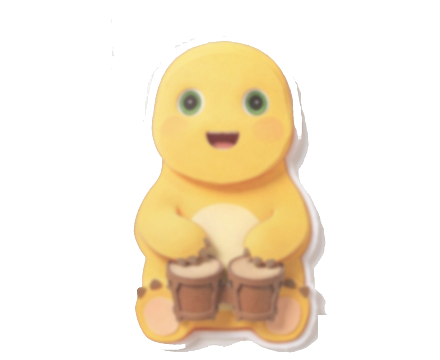
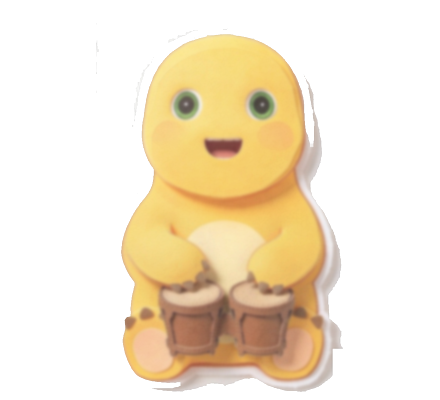
阿瓜 v6：帽子贴合+挤压收敛+体型+15%
- 体型 386（+15%），画布 440×400，SpriteHeight 220×200 映射
- 帽围缩放 ×0.9（绕头顶锚），hatAnchor 重算 (110, 4.5)——帽子贴合头顶不浮空
- 挤压系数覆盖 0.975（位图整图 2.5%，防帧内形变失真）
- 433 测试全绿

Changed region(s): [[0.2659, 0.0611, 0.7977, 0.9778]]

diff --git a/scripts/agua_assets_v6.py b/scripts/agua_assets_v6.py
@@ -1,0 +1,140 @@
+"""阿瓜素材 v6：体型 +15% + 头围测量（供帽子缩放/锚点）。
+
+画布 440×400（2x）：角色高 386（+15%），脚底 y=394。
+anchors 输出：hatAnchor（头顶内侧）+ hatHeadWidth（头顶 25% 区域宽度，供帽围比对）。
+"""
+from __future__ import annotations
+
+import json
+from collections import deque
+from pathlib import Path
+
+import numpy as np
+from PIL import Image, ImageFilter
+
+ROOT = Path(r"D:\BongoCat")
+FRAMES = ROOT / "analysis/agua-frames/frames"
+OUT = ROOT / "src/BongoCat.App/assets/species/agua"
+
+STYLES = ["clay", "sticker", "flat", "sketch", "chibi", "papercut"]
+IDLE_SRC = {
+    "clay": "保持参考图中黄色小恐龙角色的全部特征与黏土质感风格_姿势改为_2026-11-09T14-27-46.png",
+    "sticker": "保持参考图中黄色小恐龙角色的全部特征与贴纸风格_白色粗描边__2026-11-09T14-27-56.png",
+    "flat": "保持参考图中黄色小恐龙角色的全部特征与扁平矢量风格_柔和渐变_2026-11-09T14-28-05.png",
+    "sketch": "保持参考图中黄色小恐龙角色的全部特征与手绘钢笔线稿风格_斜线_2026-11-09T14-28-14.png",
+    "chibi": "保持参考图中黄色小恐龙角色的全部特征与Q版厚描边卡通风_深色_2026-11-09T14-28-24.png",
+    "papercut": "保持参考图中黄色小恐龙角色的全部特征与分层剪纸拼贴风格_撕纸_2026-11-09T14-28-33.png",
+}
+TAP_SRC = {
+    "clay": "保持这张图的所有构图_角色_鼓_光影_背景完全一致_只改一个_2026-11-09T14-29-02.png",
+    "sticker": "保持这张图的所有构图_角色_鼓_描边风格_背景完全一致_只改_2026-11-09T14-29-13.png",
+    "flat": "保持这张图的所有构图_角色_鼓_色彩_背景完全一致_只改一个_2026-11-09T14-29-24.png",
+    "sketch": "保持这张图的所有构图_角色_鼓_线稿风格_纸感背景完全一致__2026-11-09T14-29-38.png",
+    "chibi": "保持这张图的所有构图_角色_鼓_厚描边风格_背景完全一致_只_2026-11-09T14-29-49.png",
+    "papercut": "保持这张图的所有构图_角色_鼓_剪纸分层风格_背景完全一致__2026-11-09T14-30-01.png",
+}
+
+CANVAS = (440, 400)
+CHAR_H2X = 386          # +15%（原 336）
+FOOT_Y2X = 394
+WATERMARK = (800, 880, 1024, 1024)
+
+
+def remove_bg(img: Image.Image) -> Image.Image:
+    rgb = np.asarray(img.convert("RGB")).astype(np.float32)
+    h, w, _ = rgb.shape
+    border = np.concatenate([rgb[0, :, :], rgb[-1, :, :], rgb[:, 0, :], rgb[:, -1, :]])
+    ref = np.median(border, axis=0)
+    dist = np.sqrt(((rgb - ref) ** 2).sum(axis=2))
+    candidate = dist < 30
+    bg = np.zeros((h, w), dtype=bool)
+    q = deque()
+    for x in range(w):
+        for y in (0, h - 1):
+            if candidate[y, x] and not bg[y, x]:
+                bg[y, x] = True; q.append((x, y))
+    for y in range(h):
+        for x in (0, w - 1):
+            if candidate[y, x] and not bg[y, x]:
+                bg[y, x] = True; q.append((x, y))
+    while q:
+        x, y = q.popleft()
+        c = rgb[y, x]
+        for nx, ny in ((x+1,y),(x-1,y),(x,y+1),(x,y-1)):
+            if 0 <= nx < w and 0 <= ny < h and not bg[ny, nx] and candidate[ny, nx]:
+                if np.abs(rgb[ny, nx] - c).sum() < 42:
+                    bg[ny, nx] = True; q.append((nx, ny))
+    alpha = np.where(bg, 0, 255).astype(np.uint8)
+    x0, y0, x1, y1 = WATERMARK
+    alpha[y0:y1, x0:x1] = 0
+    out = img.convert("RGBA")
+    out.putalpha(Image.fromarray(alpha, "L").filter(ImageFilter.GaussianBlur(1.0)))
+    return out
+
+
+def defringe(img: Image.Image) -> Image.Image:
+    arr = np.asarray(img).astype(np.uint8)
+    a = np.clip(arr[:, :, 3].astype(np.int16) - 55, 0, 255)
+    a8 = Image.fromarray(a.astype(np.uint8), "L").filter(ImageFilter.MinFilter(3))
+    arr[:, :, 3] = np.asarray(a8)
+    rgb = arr[:, :, :3].astype(np.float32)
+    alpha = arr[:, :, 3]
+    solid = alpha > 240
+    for _ in range(2):
+        blurred = np.asarray(Image.fromarray(rgb.astype(np.uint8)).filter(ImageFilter.GaussianBlur(1))).astype(np.float32)
+        edge = (~solid) & (alpha > 8)
+        rgb[edge] = blurred[edge]
+    arr[:, :, :3] = rgb.astype(np.uint8)
+    return Image.fromarray(arr)
+
+
+def process(style: str) -> dict:
+    idle = remove_bg(Image.open(FRAMES / IDLE_SRC[style]))
+    tap = remove_bg(Image.open(FRAMES / TAP_SRC[style]))
+    a = np.asarray(idle)[:, :, 3]
+    m = a > 60
+    ys, xs = np.where(m)
+    bx0, by0, bx1, by1 = xs.min(), ys.min(), xs.max(), ys.max()
+    s = CHAR_H2X / (by1 - by0)
+    ox = int(220 - (bx0 + bx1) / 2 * s)
+    oy = int(FOOT_Y2X - by1 * s)
+
+    out = OUT / style
+    out.mkdir(parents=True, exist_ok=True)
+    for name, img in (("idle", idle), ("tap", tap)):
+        canvas = Image.new("RGBA", CANVAS, (0, 0, 0, 0))
+        scaled = img.resize((int(img.width * s), int(img.height * s)), Image.LANCZOS)
+        canvas.paste(scaled, (ox, oy), scaled)
+        canvas = defringe(canvas)
+        canvas.save(out / f"{name}.png")
+
+    # 头围测量（idle 画布顶部 22% 区域）
+    arr = np.asarray(Image.open(out / "idle.png"))
+    alpha = arr[:, :, 3] > 60
+    ys2, xs2 = np.where(alpha)
+    top = ys2.min()
+    head_band = alpha[top:top + int((ys2.max() - top) * 0.22), :]
+    hys, hxs = np.where(head_band)
+    head_w = int(hxs.max() - hxs.min()) if len(hxs) else 0
+    head_center = int((hxs.min() + hxs.max()) / 2) if len(hxs) else 220
+    return {"style": style, "scale": round(s, 4), "head_top2x": int(top),
+            "head_w2x": head_w, "head_cx2x": head_center}
+
+
+def main():
+    rep = [process(s) for s in STYLES]
+    (OUT / "v6-report.json").write_text(json.dumps(rep, ensure_ascii=False, indent=2), encoding="utf-8")
+    # 汇总（各风格取中位数，写入 anchors 供帽子缩放）
+    tops = sorted(r["head_top2x"] for r in rep)
+    widths = sorted(r["head_w2x"] for r in rep)
+    cx = sorted(r["head_cx2x"] for r in rep)
+    summary = {"head_top_logical": round(tops[len(tops)//2] / 2, 1),
+               "head_width_logical": round(widths[len(widths)//2] / 2, 1),
+               "head_center_logical": round(cx[len(cx)//2] / 2, 1)}
+    print(json.dumps(summary, ensure_ascii=False))
+    for r in rep:
+        print(r)
+
+
+if __name__ == "__main__":
+    main()

diff --git a/tests/BongoCat.App.Tests/AguaSpriteTests.cs b/tests/BongoCat.App.Tests/AguaSpriteTests.cs
@@ -7,7 +7,7 @@ namespace BongoCat.App.Tests;
 /// <summary>
 /// 阿瓜 sprite 资产目录测试（GDD-09 §7）：
 /// ① anchors.json 嵌入资源解析（6 风格全存在、爪轴/帽锚坐标在 220×180 合法域）；
-/// ② 18 张 sprite 部件（6 风格 × body/pawL/pawR）全部嵌入且为 440×360 PNG（2x 精度）；
+/// ② 12 张 sprite 双帧（6 风格 × idle/tap）全部嵌入且为 440×400 PNG（2x，v6 体型 +15%）；
 /// ③ 防御回退：损坏 JSON / 缺字段 / 未知风格 / 未知部件 → TryGet false 或 null，绝不抛异常。
 /// </summary>
 public class AguaSpriteTests
@@ -38,7 +38,7 @@ public class AguaSpriteTests
 
     [Theory]
     [MemberData(nameof(StyleIds))]
-    public void sprite部件_三件全嵌入_且为440x360的PNG(string styleId)
+    public void sprite部件_双帧全嵌入_且为440x400的PNG(string styleId)
     {
         SpriteSpeciesCatalog sprites = Load();
 
@@ -55,7 +55,7 @@ public class AguaSpriteTests
                 int width = (head[16] << 24) | (head[17] << 16) | (head[18] << 8) | head[19];
                 int height = (head[20] << 24) | (head[21] << 16) | (head[22] << 8) | head[23];
                 Assert.Equal(440, width);  // 220 逻辑 × 2 精度
-                Assert.Equal(360, height); // 180 逻辑 × 2 精度
+                Assert.Equal(400, height); // 200 逻辑 × 2 精度（v6 体型 +15%）
             }
         }
     }

diff --git a/src/BongoCat.UI/Cosmetics/StyleRenderer.cs b/src/BongoCat.UI/Cosmetics/StyleRenderer.cs
@@ -124,6 +124,20 @@ public static class StyleRenderer
             parts.PartHat.RenderTransform = new TranslateTransform(hatOffsetX, clamped);
         }
 
+        // sprite 帽围缩放（阿瓜头围与猫不同）：绕"头顶帽锚"缩放每个帽画布，与层平移独立合成。
+        if (spriteApplied && SpriteSpecies is { } spritesForScale
+            && spritesForScale.TryGetAnchors(style.Id, out SpriteAnchors anchorsForScale)
+            && Math.Abs(anchorsForScale.HatScale - 1.0) > 0.01)
+        {
+            double cx = SpriteArt.OffsetX + anchorsForScale.HatAnchorX;
+            double cy = SpriteArt.OffsetY + anchorsForScale.HatAnchorY;
+            foreach (Canvas hatChild in parts.PartHat.Children.OfType<Canvas>())
+            {
+                hatChild.RenderTransform = new ScaleTransform(anchorsForScale.HatScale, anchorsForScale.HatScale, cx, cy);
+            }
+            log?.Invoke($"[Style] 帽围缩放 ×{anchorsForScale.HatScale:0.##}（sprite 物种头围适配，锚 {cx:0.#},{cy:0.#}）");
+        }
+
         string renderPath = spriteApplied ? "sprite" : "vector";
         log?.Invoke($"[Style] 已装载风格 '{style.Id}' × 物种 '{resolvedSpecies}'（{renderPath} 路径；压深 {style.TapDownPx:0.#}px，" +
                     $"回弹 {style.ReboundMs:0}ms {style.Easing}，hat 锚点 ({hatOffsetX:0.#},{hatOffsetY:0.#})px）");

diff --git a/src/BongoCat.App/Styles/SpriteSpeciesCatalog.cs b/src/BongoCat.App/Styles/SpriteSpeciesCatalog.cs
@@ -15,6 +15,9 @@ public sealed record SpriteAnchors
     public required double PawAxisRY { get; init; }
     public required double HatAnchorX { get; init; }
     public required double HatAnchorY { get; init; }
+
+    /// <summary>帽子整体缩放（阿瓜头围与猫不同；1 = 原尺寸）。</summary>
+    public double HatScale { get; init; } = 1.0;
 }
 
 /// <summary>
@@ -133,6 +136,13 @@ public sealed class SpriteSpeciesCatalog
             return null;
         }
 
+        double hatScale = 1.0;
+        if (el.TryGetProperty("hatScale", out JsonElement hs) && hs.TryGetDouble(out double hv)
+            && hv is >= 0.6 and <= 1.2)
+        {
+            hatScale = hv;
+        }
+
         return new SpriteAnchors
         {
             PawAxisLX = axisLX.Value,
@@ -141,6 +151,7 @@ public sealed class SpriteSpeciesCatalog
             PawAxisRY = axisRY.Value,
             HatAnchorX = hatX.Value,
             HatAnchorY = hatY.Value,
+            HatScale = hatScale,
         };
     }
 

diff --git a/src/BongoCat.UI/Cosmetics/CatTapAnimator.cs b/src/BongoCat.UI/Cosmetics/CatTapAnimator.cs
@@ -59,11 +59,12 @@ public static class CatTapAnimator
             rotate.BeginAnimation(RotateTransform.AngleProperty, null);
         }
 
-        // ③ 身体挤压（以脚底为轴 scaleY：1 → squash → 1）
-        if (style.SquashScaleY < 1.0)
+        // ③ 身体挤压（以脚底为轴 scaleY：1 → squash → 1；位图物种用更小幅度防失真）
+        double squashTo = parts.SquashOverride ?? style.SquashScaleY;
+        if (squashTo < 1.0)
         {
             var squash = new DoubleAnimationUsingKeyFrames();
-            squash.KeyFrames.Add(new LinearDoubleKeyFrame(style.SquashScaleY, KeyTime.FromTimeSpan(TimeSpan.FromMilliseconds(DownMs))));
+            squash.KeyFrames.Add(new LinearDoubleKeyFrame(squashTo, KeyTime.FromTimeSpan(TimeSpan.FromMilliseconds(DownMs))));
             squash.KeyFrames.Add(new EasingDoubleKeyFrame(1.0, KeyTime.FromTimeSpan(TimeSpan.FromMilliseconds(DownMs + reboundMs)))
             {
                 EasingFunction = ease,

diff --git a/src/BongoCat.UI/Cosmetics/SpriteArt.cs b/src/BongoCat.UI/Cosmetics/SpriteArt.cs
@@ -27,7 +27,8 @@ public static class SpriteArt
 {
     /// <summary>sprite 资源逻辑画布（锚点坐标系；2x 资产 440×360 缩放显示）。</summary>
     public const double SpriteWidth = 220;
-    public const double SpriteHeight = 180;
+    /// <summary>v6：资源画布 440×400 @2x（角色 +15% 体型，脚底对齐底边）。</summary>
+    public const double SpriteHeight = 200;
 
     /// <summary>sprite 在 240×200 渲染画布中的居中偏移。</summary>
     public const double OffsetX = (StyleArt.ArtWidth - SpriteWidth) / 2;
@@ -151,6 +152,7 @@ public static class SpriteArt
             HatBounce = hatBounce,
             FaceBounce = faceBounce,
             Frames = framesMode ? new FrameSwitcher(bodyImage, idle!, tap!) : null,
+            SquashOverride = 0.975, // 位图整图挤压：幅度收敛，避免帧内形变失真
         };
     }
 

diff --git a/src/BongoCat.UI/Cosmetics/StyleCatParts.cs b/src/BongoCat.UI/Cosmetics/StyleCatParts.cs
@@ -71,4 +71,7 @@ public sealed class StyleCatParts
 
     /// <summary>v5 双帧切换（sprite 物种 idle/tap 整绘）；矢量物种为 null。</summary>
     public SpriteArt.ISpriteFrameSwitcher? Frames { get; init; }
+
+    /// <summary>挤压系数覆盖（位图物种整图挤压易失真，用更小的幅度；null = 用风格参数）。</summary>
+    public double? SquashOverride { get; init; }
 }
